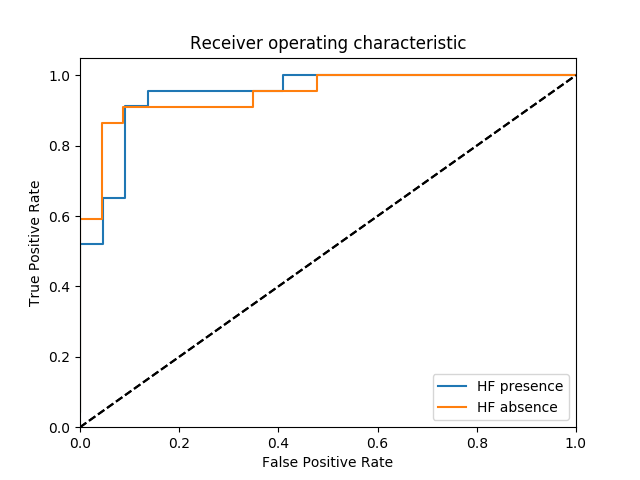
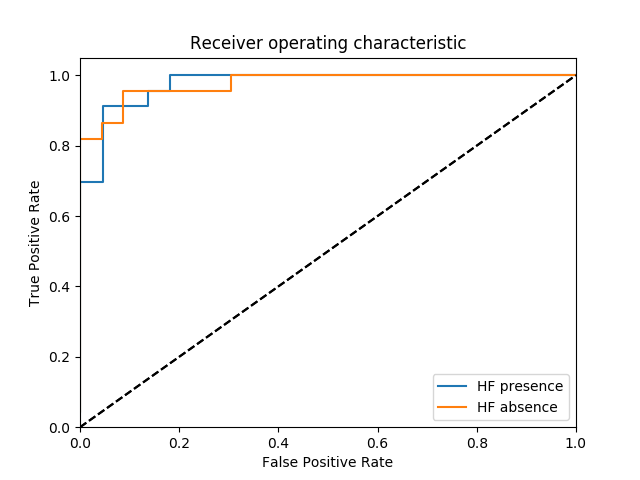
fix not using attribute w

Changed region(s): [[0.1562, 0.1562, 0.5, 0.25], [0.125, 0.2812, 0.1875, 0.4688], [0.125, 0.5, 0.1562, 0.5312]]

diff --git a/test.py b/test.py
@@ -19,7 +19,7 @@ SCALE_M = 'min_max' # scale x(attributes)
 isW = 1
 W_TRAINABLE = 0
 ANN_PATH = OUTPUT_DIR + 'ANNmodel'+'-IMP'+IMP_M+'-SCALE'+SCALE_M+'-isW'+str(isW)+'-wTrain'+str(W_TRAINABLE)+'.h5'
-ANN_AGAIN = False
+ANN_AGAIN = 0
 isEval = 0
 COLS_PATH = DATA_DIR + 'missing_cols' # missing cols
 
@@ -37,11 +37,11 @@ def train():
 
     # model
     if (not os.path.isfile(ANN_PATH)) | ANN_AGAIN :
-        print('\nTraining ANN(13-13-10-2)...')
+        print('\nTraining ANN...')
         from model import ANN
         model = ANN(X_train, y_train, isW, W_TRAINABLE, ANN_PATH, isPlot=OUTPUT_DIR)
     else:
-        print('\nLoading ANN(13-13-10-2)...')
+        print('\nLoading ANN...')
         model = load_model(ANN_PATH)
 
     # evaluate model

diff --git a/model.py b/model.py
@@ -26,13 +26,11 @@ def ANN(X_train, y_train, isW, w_trainable, model_path, isPlot=0, isShow=0):
         W = np.zeros([13, 13])
         for i in range(13): W[i, i] = w[i]
         # print(W)
-    else:
-        W = np.ones([13, 13])
-    b = np.zeros([13])
+        b = np.zeros([13])
 
     # create model
     model = Sequential()
-    model.add(Dense(13, input_dim=13, weights=[W, b], trainable=w_trainable)) # layer1 : 13-13 (attribute weight)
+    if isW: model.add(Dense(13, input_dim=13, weights=[W, b], trainable=w_trainable)) # layer1 : 13-13 (attribute weight)
     model.add(Dense(10, input_dim=13, activation='sigmoid'))
     model.add(Dense(2, activation='softmax'))
 
